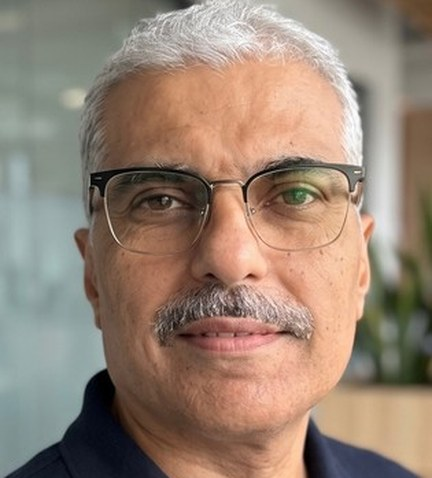
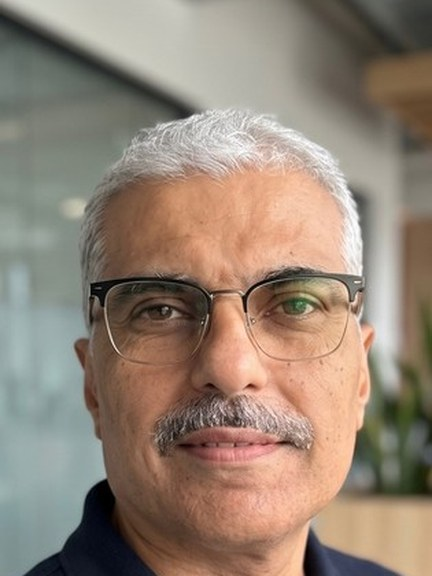
Reframe team portraits with taller cards and looser crops
Claude-Session: https://claude.ai/code/session_013duUUYBarWAhfZq84nP5YF

diff --git a/team.html b/team.html
@@ -5,7 +5,7 @@
 <header><div class="wrap nav"><a class="logo" href="index.html"><svg width="32" height="32" viewBox="0 0 32 32" aria-hidden="true"><path d="M16 0c1.400 8 4.600 12.600 0 16C11.400 12.600 14.600 8 16 0z" fill="#2bb3b8"/><path d="M32 16c-8 1.400-12.600 4.600-16 0 3.400-4.600 8-1.400 16 0z" fill="#7a4fb8"/><path d="M16 32c-1.400-8-4.600-12.600 0-16 4.600 3.400 1.400 8 0 16z" fill="#2f5fa8"/><path d="M0 16c8-1.400 12.600-4.600 16 0-3.400 4.600-8 1.400-16 0z" fill="#3f8fd0"/><path fill="#fff" d="M16 10.500c.6 3.300 2.200 4.900 5.500 5.500-3.300.6-4.900 2.200-5.500 5.500-.6-3.300-2.200-4.900-5.500-5.500 3.300-.6 4.900-2.200 5.500-5.500z"/></svg><span class="wm" aria-label="HybridAI">Hybrid<svg class="lam" viewBox="0 0 14 15" aria-hidden="true"><path d="M1.500 14 7 1.500 12.500 14" fill="none" stroke="currentColor" stroke-width="2" stroke-linecap="round" stroke-linejoin="round"/></svg>I</span></a>
 <button class="menu" aria-label="Menu" aria-expanded="false">☰</button><nav aria-label="Main"><ul><li><a href="index.html">Home</a></li><li><a href="team.html" aria-current=page>Meet Our Team</a></li><li><a href="platform.html">Platform Overview</a></li><li><a href="careers.html">Careers</a></li><li class="mob"><a class="btn fill" href="contact.html#contact-form">Contact Us</a></li></ul></nav><a class="btn out" href="contact.html#contact-form">Contact Us</a></div></header>
 <main id="main"><section class="band"><div class="wrap"><h1 class="teamh">The <span class="grad">HybridAI</span> Team</h1><p>At the helm of our company is a dynamic leadership team committed to fostering growth, innovation, and excellence. With deep industry expertise and a shared passion for driving meaningful change, our leaders are dedicated to guiding our organization with vision, integrity, and strategic insight. Learn more about the individuals who inspire our direction and lead us toward a successful future.</p></div></section>
-<div class="wrap"><div class="team"><div class="card reveal"><img src="assets/rajesh.jpg" alt="Portrait of Rajesh Chainani" width="432" height="478" loading="lazy"><div><span>Rajesh Chainani<small>CPO and Co-Founder</small></span><span class="ph" title="LinkedIn URL to be supplied" aria-label="Rajesh Chainani LinkedIn (URL to be supplied)"><svg class="li-ico" viewBox="0 0 24 24" fill="currentColor" aria-hidden="true"><path d="M20.450 20.450h-3.560v-5.570c0-1.330-.03-3.040-1.850-3.040-1.860 0-2.140 1.450-2.140 2.940v5.670H9.350V9h3.410v1.560h.05c.48-.9 1.640-1.850 3.370-1.850 3.600 0 4.270 2.370 4.270 5.460v6.280zM5.340 7.430a2.060 2.060 0 1 1 0-4.120 2.060 2.060 0 0 1 0 4.120zM7.120 20.450H3.560V9h3.560v11.450z"/></svg></span></div></div><div class="card reveal"><img src="assets/ramesh.jpg" alt="Portrait of Ramesh Ramnath" width="432" height="478" loading="lazy"><div><span>Ramesh Ramnath<small>CDO, Co-Founder</small></span><span class="ph" title="LinkedIn URL to be supplied" aria-label="Ramesh Ramnath LinkedIn (URL to be supplied)"><svg class="li-ico" viewBox="0 0 24 24" fill="currentColor" aria-hidden="true"><path d="M20.450 20.450h-3.560v-5.570c0-1.330-.03-3.040-1.850-3.040-1.860 0-2.140 1.450-2.140 2.940v5.670H9.350V9h3.410v1.560h.05c.48-.9 1.640-1.850 3.370-1.850 3.600 0 4.270 2.370 4.270 5.460v6.280zM5.340 7.430a2.060 2.060 0 1 1 0-4.120 2.060 2.060 0 0 1 0 4.120zM7.120 20.450H3.560V9h3.560v11.450z"/></svg></span></div></div><div class="card reveal"><img src="assets/udaya.jpg" alt="Portrait of Udaya Kondameedi" width="432" height="478" loading="lazy"><div><span>Udaya Kondameedi</span><span class="ph" title="LinkedIn URL to be supplied" aria-label="Udaya Kondameedi LinkedIn (URL to be supplied)"><svg class="li-ico" viewBox="0 0 24 24" fill="currentColor" aria-hidden="true"><path d="M20.450 20.450h-3.560v-5.570c0-1.330-.03-3.040-1.850-3.040-1.860 0-2.140 1.450-2.140 2.940v5.670H9.350V9h3.410v1.560h.05c.48-.9 1.640-1.850 3.370-1.850 3.600 0 4.270 2.370 4.270 5.460v6.280zM5.340 7.430a2.060 2.060 0 1 1 0-4.120 2.060 2.060 0 0 1 0 4.120zM7.120 20.450H3.560V9h3.560v11.450z"/></svg></span></div></div></div></div><div class="stat"><b>100</b> years domain expertise<small class="tbc-note" style="display:block">Pending confirmation from HybridAI</small></div>
+<div class="wrap"><div class="team"><div class="card reveal"><img src="assets/rajesh.jpg" alt="Portrait of Rajesh Chainani" width="432" height="576" loading="lazy"><div><span>Rajesh Chainani<small>CPO and Co-Founder</small></span><span class="ph" title="LinkedIn URL to be supplied" aria-label="Rajesh Chainani LinkedIn (URL to be supplied)"><svg class="li-ico" viewBox="0 0 24 24" fill="currentColor" aria-hidden="true"><path d="M20.450 20.450h-3.560v-5.570c0-1.330-.03-3.040-1.850-3.040-1.860 0-2.140 1.450-2.140 2.940v5.670H9.350V9h3.410v1.560h.05c.48-.9 1.640-1.850 3.370-1.850 3.600 0 4.270 2.370 4.270 5.460v6.280zM5.340 7.430a2.060 2.060 0 1 1 0-4.120 2.060 2.060 0 0 1 0 4.120zM7.120 20.450H3.560V9h3.560v11.450z"/></svg></span></div></div><div class="card reveal"><img src="assets/ramesh.jpg" alt="Portrait of Ramesh Ramnath" width="432" height="576" loading="lazy"><div><span>Ramesh Ramnath<small>CDO, Co-Founder</small></span><span class="ph" title="LinkedIn URL to be supplied" aria-label="Ramesh Ramnath LinkedIn (URL to be supplied)"><svg class="li-ico" viewBox="0 0 24 24" fill="currentColor" aria-hidden="true"><path d="M20.450 20.450h-3.560v-5.570c0-1.330-.03-3.040-1.850-3.040-1.860 0-2.140 1.450-2.140 2.940v5.670H9.350V9h3.410v1.560h.05c.48-.9 1.640-1.850 3.370-1.850 3.600 0 4.270 2.370 4.270 5.460v6.280zM5.340 7.430a2.060 2.060 0 1 1 0-4.120 2.060 2.060 0 0 1 0 4.120zM7.120 20.450H3.560V9h3.560v11.450z"/></svg></span></div></div><div class="card reveal"><img src="assets/udaya.jpg" alt="Portrait of Udaya Kondameedi" width="432" height="576" loading="lazy"><div><span>Udaya Kondameedi</span><span class="ph" title="LinkedIn URL to be supplied" aria-label="Udaya Kondameedi LinkedIn (URL to be supplied)"><svg class="li-ico" viewBox="0 0 24 24" fill="currentColor" aria-hidden="true"><path d="M20.450 20.450h-3.560v-5.570c0-1.330-.03-3.040-1.850-3.040-1.860 0-2.140 1.450-2.140 2.940v5.670H9.350V9h3.410v1.560h.05c.48-.9 1.640-1.850 3.370-1.850 3.600 0 4.270 2.370 4.270 5.460v6.280zM5.340 7.430a2.060 2.060 0 1 1 0-4.120 2.060 2.060 0 0 1 0 4.120zM7.120 20.450H3.560V9h3.560v11.450z"/></svg></span></div></div></div></div><div class="stat"><b>100</b> years domain expertise<small class="tbc-note" style="display:block">Pending confirmation from HybridAI</small></div>
 <p class="tbc-note" style="text-align:center;margin-top:16px">Team LinkedIn links: URL to be supplied.</p>
 <div class="wrap"><section class="s"><h2 style="font-weight:500">Wish To Join Our Team?</h2><a class="btn fill" href="careers.html">View Vacancies</a></section></div></main>
 <footer><div class="wrap"><div class="fgrid"><div><a class="logo" href="index.html"><svg width="32" height="32" viewBox="0 0 32 32" aria-hidden="true"><path d="M16 0c1.400 8 4.600 12.600 0 16C11.400 12.600 14.600 8 16 0z" fill="#2bb3b8"/><path d="M32 16c-8 1.400-12.600 4.600-16 0 3.400-4.600 8-1.400 16 0z" fill="#7a4fb8"/><path d="M16 32c-1.400-8-4.600-12.600 0-16 4.600 3.400 1.400 8 0 16z" fill="#2f5fa8"/><path d="M0 16c8-1.400 12.600-4.600 16 0-3.400 4.600-8 1.400-16 0z" fill="#3f8fd0"/><path fill="#fff" d="M16 10.500c.6 3.300 2.200 4.900 5.500 5.500-3.300.6-4.900 2.200-5.500 5.500-.6-3.300-2.200-4.900-5.500-5.500 3.300-.6 4.900-2.200 5.500-5.500z"/></svg><span class="wm" aria-label="HybridAI">Hybrid<svg class="lam" viewBox="0 0 14 15" aria-hidden="true"><path d="M1.500 14 7 1.500 12.500 14" fill="none" stroke="currentColor" stroke-width="2" stroke-linecap="round" stroke-linejoin="round"/></svg>I</span></a><p>HybridAI is a cutting-edge SaaS and on-premise platform designed to revolutionize how companies manage and optimize their IT and AI infrastructure resources through the datacenter lifecycle.</p>

diff --git a/assets/style.css b/assets/style.css
@@ -41,7 +41,7 @@ section.s{padding:64px 0;text-align:center}
 .panel.on{display:grid;animation:f .4s}@keyframes f{from{opacity:0;transform:translateY(8px)}}
 .panel ul{padding-left:20px}.panel>svg{width:150px;height:150px}
 .team{display:flex;flex-wrap:wrap;justify-content:center;gap:32px;margin:48px 0}
-.card{width:215px;border-radius:14px;overflow:hidden;position:relative;background:#222;aspect-ratio:216/239;transition:.3s}.card:hover{transform:translateY(-6px)}.card img{width:100%;height:100%;object-fit:cover;display:block}.li-ico{width:18px;height:18px;color:var(--ink);display:block}.teamh{color:var(--blue)}.card div{position:absolute;left:8px;right:8px;bottom:8px;background:var(--bg);color:var(--ink);border-radius:8px;padding:6px 10px;font:600 13px/1.3 "Montserrat";text-align:left;display:flex;justify-content:space-between;align-items:center}
+.card{width:215px;border-radius:14px;overflow:hidden;position:relative;background:#222;aspect-ratio:3/4;transition:.3s}.card:hover{transform:translateY(-6px)}.card img{width:100%;height:100%;object-fit:cover;display:block}.li-ico{width:18px;height:18px;color:var(--ink);display:block}.teamh{color:var(--blue)}.card div{position:absolute;left:8px;right:8px;bottom:8px;background:var(--bg);color:var(--ink);border-radius:8px;padding:6px 10px;font:600 13px/1.3 "Montserrat";text-align:left;display:flex;justify-content:space-between;align-items:center}
 .card small{display:block;font:400 10px "Poppins";color:var(--muted)}
 .stat{border-block:1px solid var(--blue);padding:8px;text-align:center;font-size:26px;color:var(--blue)}.stat b{font-size:42px}
 .perks{display:grid;grid-template-columns:1fr 1fr;gap:12px}.perk{padding:16px;border-radius:8px;font-size:13px;text-align:left}

diff --git a/build.py b/build.py
@@ -108,7 +108,7 @@ def li(n):
     return f'<span class="ph" title="LinkedIn URL to be supplied" aria-label="{n} LinkedIn (URL to be supplied)">{ico("in","li-ico")}</span>'
 def card(n,r,img):
     role=f"<small>{r}</small>" if r else ""
-    return f'<div class="card reveal"><img src="assets/{img}.jpg" alt="Portrait of {n}" width="432" height="478" loading="lazy"><div><span>{n}{role}</span>{li(n)}</div></div>'
+    return f'<div class="card reveal"><img src="assets/{img}.jpg" alt="Portrait of {n}" width="432" height="576" loading="lazy"><div><span>{n}{role}</span>{li(n)}</div></div>'
 team=f'''<section class="band"><div class="wrap"><h1 class="teamh">The <span class="grad">HybridAI</span> Team</h1><p>At the helm of our company is a dynamic leadership team committed to fostering growth, innovation, and excellence. With deep industry expertise and a shared passion for driving meaningful change, our leaders are dedicated to guiding our organization with vision, integrity, and strategic insight. Learn more about the individuals who inspire our direction and lead us toward a successful future.</p></div></section>
 <div class="wrap"><div class="team">{"".join(card(*t) for t in TEAM)}</div></div><div class="stat"><b>100</b> years domain expertise<small class="tbc-note" style="display:block">Pending confirmation from HybridAI</small></div>
 <p class="tbc-note" style="text-align:center;margin-top:16px">Team LinkedIn links: URL to be supplied.</p>
